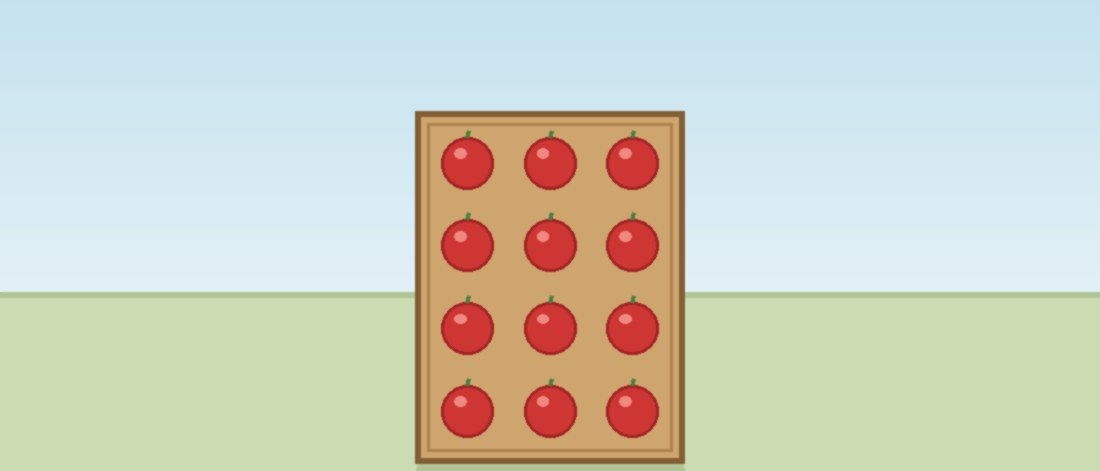
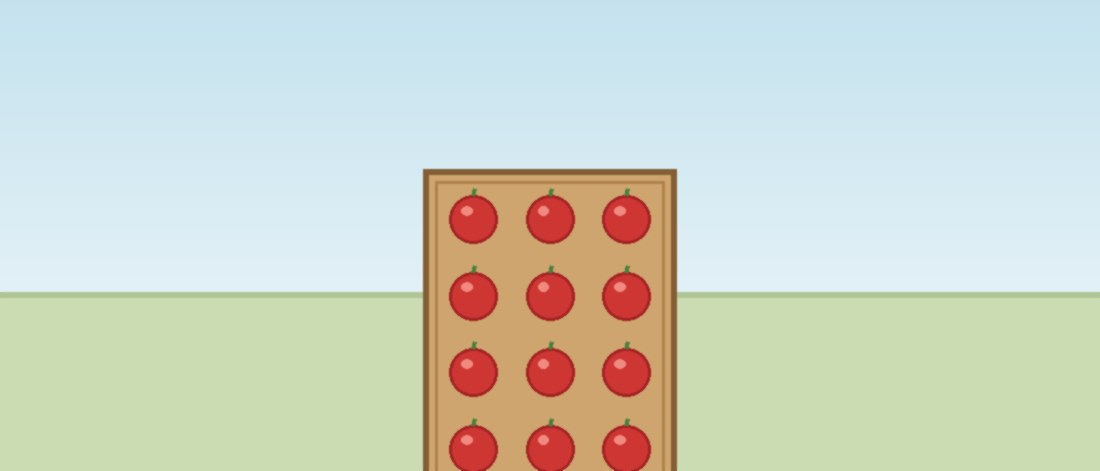
HH-167: fix the 11 diagram defects the QC found
A vision pass counted every generated diagram against its caption and rejected
11 of 25. None were miscounts — the quantities were exact, as intended — they
were staging and spec errors, and unlike prompt roulette every one had a
determinate fix:

  renderer
  - a tall array (L3 p8) pushed its top row into the band the balloons occupy;
    blocks are now positioned against an explicit balloon-band floor
  - the empty comparison basket drew 3 hollows for a group size of 4, so the
    child compared the leftover against the wrong divisor
  - take_away stacked the 9 eaten berries on top of the 15 remaining ones;
    they now sit in two zones either side of a rule, which is the whole point

  specs (each caught by re-reading the caption the panel has to serve)
  - L4 p4 is the ZERO beat — "empty, empty, empty, empty, empty" — and was
    drawn with a berry in every basket, i.e. 5 x 1, the exact opposite
  - L4 p5 needed the bare half that stands for "no groups at all -> 0 x 7 = 0"
  - L4 p7 has to SHOW the six berries that never get divided, or "6 / 0 has no
    answer" exists only in the caption
  - L5 p2 asserts groups "all the SAME size" — one basket cannot show sameness
  - L6 p2 asks whether everybody finds a buddy; drawing them already paired
    answered the question a panel early
  - L7 p1 says six baskets "to fill", and they were drawn already full
  - L8 p1 needed Fuecoco's ONE against Quaxly's THREE, not an undifferentiated
    row of four
[…]

Changed region(s): [[0.3709, 0.2081, 0.6491, 1.0]]

diff --git a/tutor/mangadiagram.py b/tutor/mangadiagram.py
@@ -90,6 +90,11 @@ def _row_positions(n, cx, gap):
     return [cx - span / 2 + i * gap for i in range(n)]
 
 
+def _band_top(h):
+    """The lowest y a diagram may touch — everything above belongs to balloons."""
+    return h * 0.36
+
+
 def _fit(img, cols, rows, pad=90, max_gap=96, min_gap=30):
     """The biggest spacing that fits a cols x rows block BELOW the balloon band.
 
@@ -100,7 +105,7 @@ def _fit(img, cols, rows, pad=90, max_gap=96, min_gap=30):
     """
     w, h = img.size
     avail_w = w - pad * 2
-    avail_h = h * 0.66 - pad * 0.7          # everything below the reserved band
+    avail_h = (h - _band_top(h)) - pad * 0.8   # everything below the reserved band
     gw = avail_w / max(cols - 1, 1) if cols > 1 else avail_w
     gh = avail_h / max(rows - 1, 1) if rows > 1 else avail_h
     return max(min(gw, gh, max_gap), min_gap)
@@ -186,8 +191,8 @@ def array(cols, rows, span="full"):
     cx = w / 2
     # Sit the block in the lower band: never above the balloon zone, never off
     # the bottom edge.
-    cy = min(h * 0.62 + gh / 2, h - gh / 2 - 60)
     pad = r + 26
+    cy = max(_band_top(h) + gh / 2 + pad, h - gh / 2 - pad - 24)
     tray(d, cx - gw / 2 - pad, cy - gh / 2 - pad, cx + gw / 2 + pad, cy + gh / 2 + pad)
     _grid(d, cols, rows, cx, cy, gap, r)
     return img
@@ -202,8 +207,8 @@ def split_array(cols, rows_kept, rows_added, span="full"):
     r = max(int(gap * 0.32), 10)
     gw, gh = (cols - 1) * gap, (total - 1) * gap
     cx = w / 2
-    cy = min(h * 0.62 + gh / 2, h - gh / 2 - 55)
     pad = r + 22
+    cy = max(_band_top(h) + gh / 2 + pad, h - gh / 2 - pad - 20)
     tray(d, cx - gw / 2 - pad, cy - gh / 2 - pad, cx + gw / 2 + pad, cy + gh / 2 + pad)
     ys = _row_positions(total, cy, gap)
     for y in ys:
@@ -322,8 +327,70 @@ def groups_and_leftover(groups, group_size, leftover, span="full", show_slot=Fal
         _fill(xs[-1], 0)
         cx = xs[-1]
         top = base - 72
-        for x in _row_positions(min(group_size, 3), cx, 36):
-            d.ellipse([x - 14, top - 20, x + 14, top + 8], outline=WOOD_DARK, width=3)
+        per_row = min(group_size, 3)
+        for r_i in range(math.ceil(group_size / per_row)):
+            in_row = min(per_row, group_size - r_i * per_row)
+            for x in _row_positions(in_row, cx, 36):
+                d.ellipse([x - 14, top - 20 - r_i * 32, x + 14, top + 8 - r_i * 32],
+                          outline=WOOD_DARK, width=3)
+    return img
+
+
+def two_sets(left_counts, right_counts, span="full"):
+    """Two clearly SEPARATED collections of baskets, divided by a rule.
+
+    A comparison is only visible if the eye can tell where one set ends and the
+    other begins: an evenly-spaced row of four baskets cannot show "one basket
+    versus three". Pass an empty list for a side that is meant to be bare — that
+    is how "no groups at all" gets drawn.
+    """
+    img, d = _canvas(span)
+    w, h = img.size
+    base = int(h * 0.86)
+    d.line([(w / 2, base - 150), (w / 2, base + 18)], fill=INK, width=5)
+
+    def _side(counts, cx_centre, half_w):
+        if not counts:
+            return
+        gap = min(190, (half_w - 60) / max(len(counts), 1))
+        bw = int(gap * 0.62)
+        for cx, n in zip(_row_positions(len(counts), cx_centre, gap), counts):
+            top = basket(d, cx, base, w=bw, h=74)
+            per_row = min(max(n, 1), 3)
+            for r_i in range(math.ceil(n / per_row) if n else 0):
+                in_row = min(per_row, n - r_i * per_row)
+                for x in _row_positions(in_row, cx, 38):
+                    berry(d, x, top - 6 - r_i * 32, 14)
+
+    _side(left_counts, w * 0.26, w * 0.44)
+    _side(right_counts, w * 0.74, w * 0.44)
+    return img
+
+
+def zero_vs_pile(empties, pile, span="full"):
+    """N empty shares on one side; an untouched pile still sitting on the other.
+
+    This is the ``6 / 0`` beat: however many empty containers you line up, the
+    six berries have not gone anywhere — so there is no answer. The undivided
+    pile has to be VISIBLE or the argument is only in the caption.
+    """
+    img, d = _canvas(span)
+    w, h = img.size
+    base = int(h * 0.86)
+    d.line([(w / 2, base - 150), (w / 2, base + 18)], fill=INK, width=5)
+    gap = min(120, (w * 0.42) / max(empties, 1))
+    for cx in _row_positions(empties, w * 0.27, gap):
+        cup(d, cx, base, w=int(gap * 0.62), h=62)
+    crate_w = min(300, w * 0.34)
+    x0, x1 = w * 0.74 - crate_w / 2, w * 0.74 + crate_w / 2
+    y1 = base
+    y0 = y1 - 128
+    tray(d, x0, y0, x1, y1)
+    per_row = min(pile, 3)
+    for r_i in range(math.ceil(pile / per_row)):
+        in_row = min(per_row, pile - r_i * per_row)
+        for x in _row_positions(in_row, (x0 + x1) / 2, 62):
+            berry(d, x, y0 + 42 + r_i * 52, 18)
     return img
 
 
@@ -371,26 +438,35 @@ def take_away(total, removed, span="full", cols=8):
     img, d = _canvas(span)
     w, h = img.size
     kept = total - removed
-    rows = math.ceil(total / cols)
-    gap = min(58, (w - 190) / cols)
-    cy = int(h * 0.74)
-    ys = _row_positions(rows, cy, gap * 0.84)
-    i = 0
+    gap = min(56, (w * 0.44) / max(cols, 1))
+    # Two clearly separate zones: what is LEFT on the left, what was EATEN on the
+    # right, with a rule between them. Overlapping the two made 24 - 9 unreadable.
+    left_cx, right_cx = w * 0.30, w * 0.76
+    cy = h * 0.72
     ghosts = []
-    for y in ys:
-        in_row = min(cols, total - i)
-        for x in _row_positions(in_row, w / 2, gap):
-            if i < kept:
-                berry(d, x, y, 16)
-            else:
-                ghosts.append((x, y - 58))
-            i += 1
+
+    def _block(n, cx, keep):
+        rows = math.ceil(n / cols) if n else 0
+        ys = _row_positions(rows, cy, gap * 0.9)
+        drawn = 0
+        for y in ys:
+            in_row = min(cols, n - drawn)
+            for x in _row_positions(in_row, cx, gap):
+                if keep:
+                    berry(d, x, y, 15)
+                else:
+                    ghosts.append((x, y))
+                drawn += 1
+
+    _block(kept, left_cx, True)
+    _block(removed, right_cx, False)
+    d.line([(w * 0.53, cy - 110), (w * 0.53, cy + 110)], fill=INK, width=5)
     if ghosts:
         layer = Image.new("RGBA", img.size, (0, 0, 0, 0))
         gd = ImageDraw.Draw(layer)
         for x, y in ghosts:
-            gd.ellipse([x - 16, y - 16, x + 16, y + 16],
-                       fill=BERRY + (110,), outline=BERRY_SHADE + (140,), width=3)
+            gd.ellipse([x - 15, y - 15, x + 15, y + 15],
+                       fill=BERRY + (95,), outline=BERRY_SHADE + (150,), width=3)
         img = Image.alpha_composite(img.convert("RGBA"), layer).convert("RGB")
     return img
 

diff --git a/tutor/management/commands/draw_ch4_diagrams.py b/tutor/management/commands/draw_ch4_diagrams.py
@@ -51,22 +51,22 @@ PANELS = [
 
     # ---- L4 Zero and One ----
     ("pokemon-ch4-l4-zero-and-one", 4, "full",
-     lambda s: dg.equal_groups([1, 1, 1, 1, 1], span=s),
-     "seven groups of 1 / five groups -- exact container count matters"),
+     lambda s: dg.equal_groups([0] * 5, span=s),
+     "five baskets, all flipped EMPTY -- the setup for 5 x 0"),
     ("pokemon-ch4-l4-zero-and-one", 5, "full",
-     lambda s: dg.equal_groups([0, 0, 0, 0, 0], span=s),
-     "five groups of 0 -> 5 x 0 = 0 (five EMPTY baskets)"),
+     lambda s: dg.two_sets([0] * 5, [], span=s),
+     "5 x 0 = 0 (five empty baskets) | 0 x 7 = 0 (no groups at all -- bare)"),
     ("pokemon-ch4-l4-zero-and-one", 7, "full",
-     lambda s: dg.equal_groups([0] * 6, span=s),
-     "0 / 6 = 0 -- exactly six empty shares"),
+     lambda s: dg.zero_vs_pile(6, 6, span=s),
+     "0 / 6 = 0 (six empty cups) | 6 / 0 -- the six berries still sit there"),
 
     # ---- L5 Division with Remainders ----
     ("pokemon-ch4-l5-remainders", 1, "wide",
      lambda s: dg.heap(13, span=s, cols=7),
      "13 berries came in on the last cart"),
     ("pokemon-ch4-l5-remainders", 2, "normal",
-     lambda s: dg.equal_groups([4], span=s),
-     "a finished basket holds exactly 4"),
+     lambda s: dg.equal_groups([4, 4, 4], span=s),
+     "every basket the SAME size -- exactly 4 in each"),
     ("pokemon-ch4-l5-remainders", 5, "full",
      lambda s: dg.groups_and_leftover(2, 4, 5, span=s),
      "Pawmi's WRONG try: 2 baskets of 4, and 5 still in the cup -- is 2 R 5 right?"),
@@ -76,13 +76,13 @@ PANELS = [
 
     # ---- L6 Odd and Even ----
     ("pokemon-ch4-l6-odd-even", 2, "normal",
-     lambda s: dg.pairs(8, span=s),
-     "eight berries, every boat holds two"),
+     lambda s: dg.heap(8, span=s, cols=8),
+     "eight LOOSE berries -- will everybody find a buddy?"),
 
     # ---- L7 Bar Models ----
     ("pokemon-ch4-l7-bar-model-word-problems", 1, "wide",
-     lambda s: dg.equal_groups([5] * 6, span=s),
-     "six baskets, five berries in each"),
+     lambda s: dg.equal_groups([0] * 6, span=s),
+     "six baskets still TO FILL -- empty, five will go in each"),
     ("pokemon-ch4-l7-bar-model-word-problems", 4, "full",
      lambda s: dg.bar_model(6, 5, span=s),
      "6 units of 5 -> 6 x 5 = 30"),
@@ -95,8 +95,8 @@ PANELS = [
 
     # ---- L8 Times as Many ----
     ("pokemon-ch4-l8-times-as-many", 1, "wide",
-     lambda s: dg.equal_groups([4, 4, 4, 4], span=s),
-     "Fuecoco's 4, and Quaxly's three times as many"),
+     lambda s: dg.two_sets([4], [4, 4, 4], span=s),
+     "Fuecoco's ONE basket of 4 | Quaxly's THREE -- 3 times as many"),
     ("pokemon-ch4-l8-times-as-many", 4, "full",
      lambda s: dg.compare_bars(4, 3, span=s),
      "two bars from the SAME left edge: 1 unit vs 3 copies"),
@@ -109,8 +109,8 @@ PANELS = [
      lambda s: dg.equal_groups([6, 6, 6, 6], span=s),
      "4 groups of 6"),
     ("pokemon-ch4-l9-two-step", 5, "full",
-     lambda s: dg.heap(24, span=s, cols=8),
-     "STEP 1 -- one heap of 24"),
+     lambda s: dg.heap(24, span=s, cols=6),
+     "STEP 1 -- one pile of 24, in rows of 6 so 6/12/18/24 is traceable"),
     ("pokemon-ch4-l9-two-step", 6, "full",
      lambda s: dg.take_away(24, 9, span=s, cols=8),
      "STEP 2 -- 24 - 9 = 15 left"),
